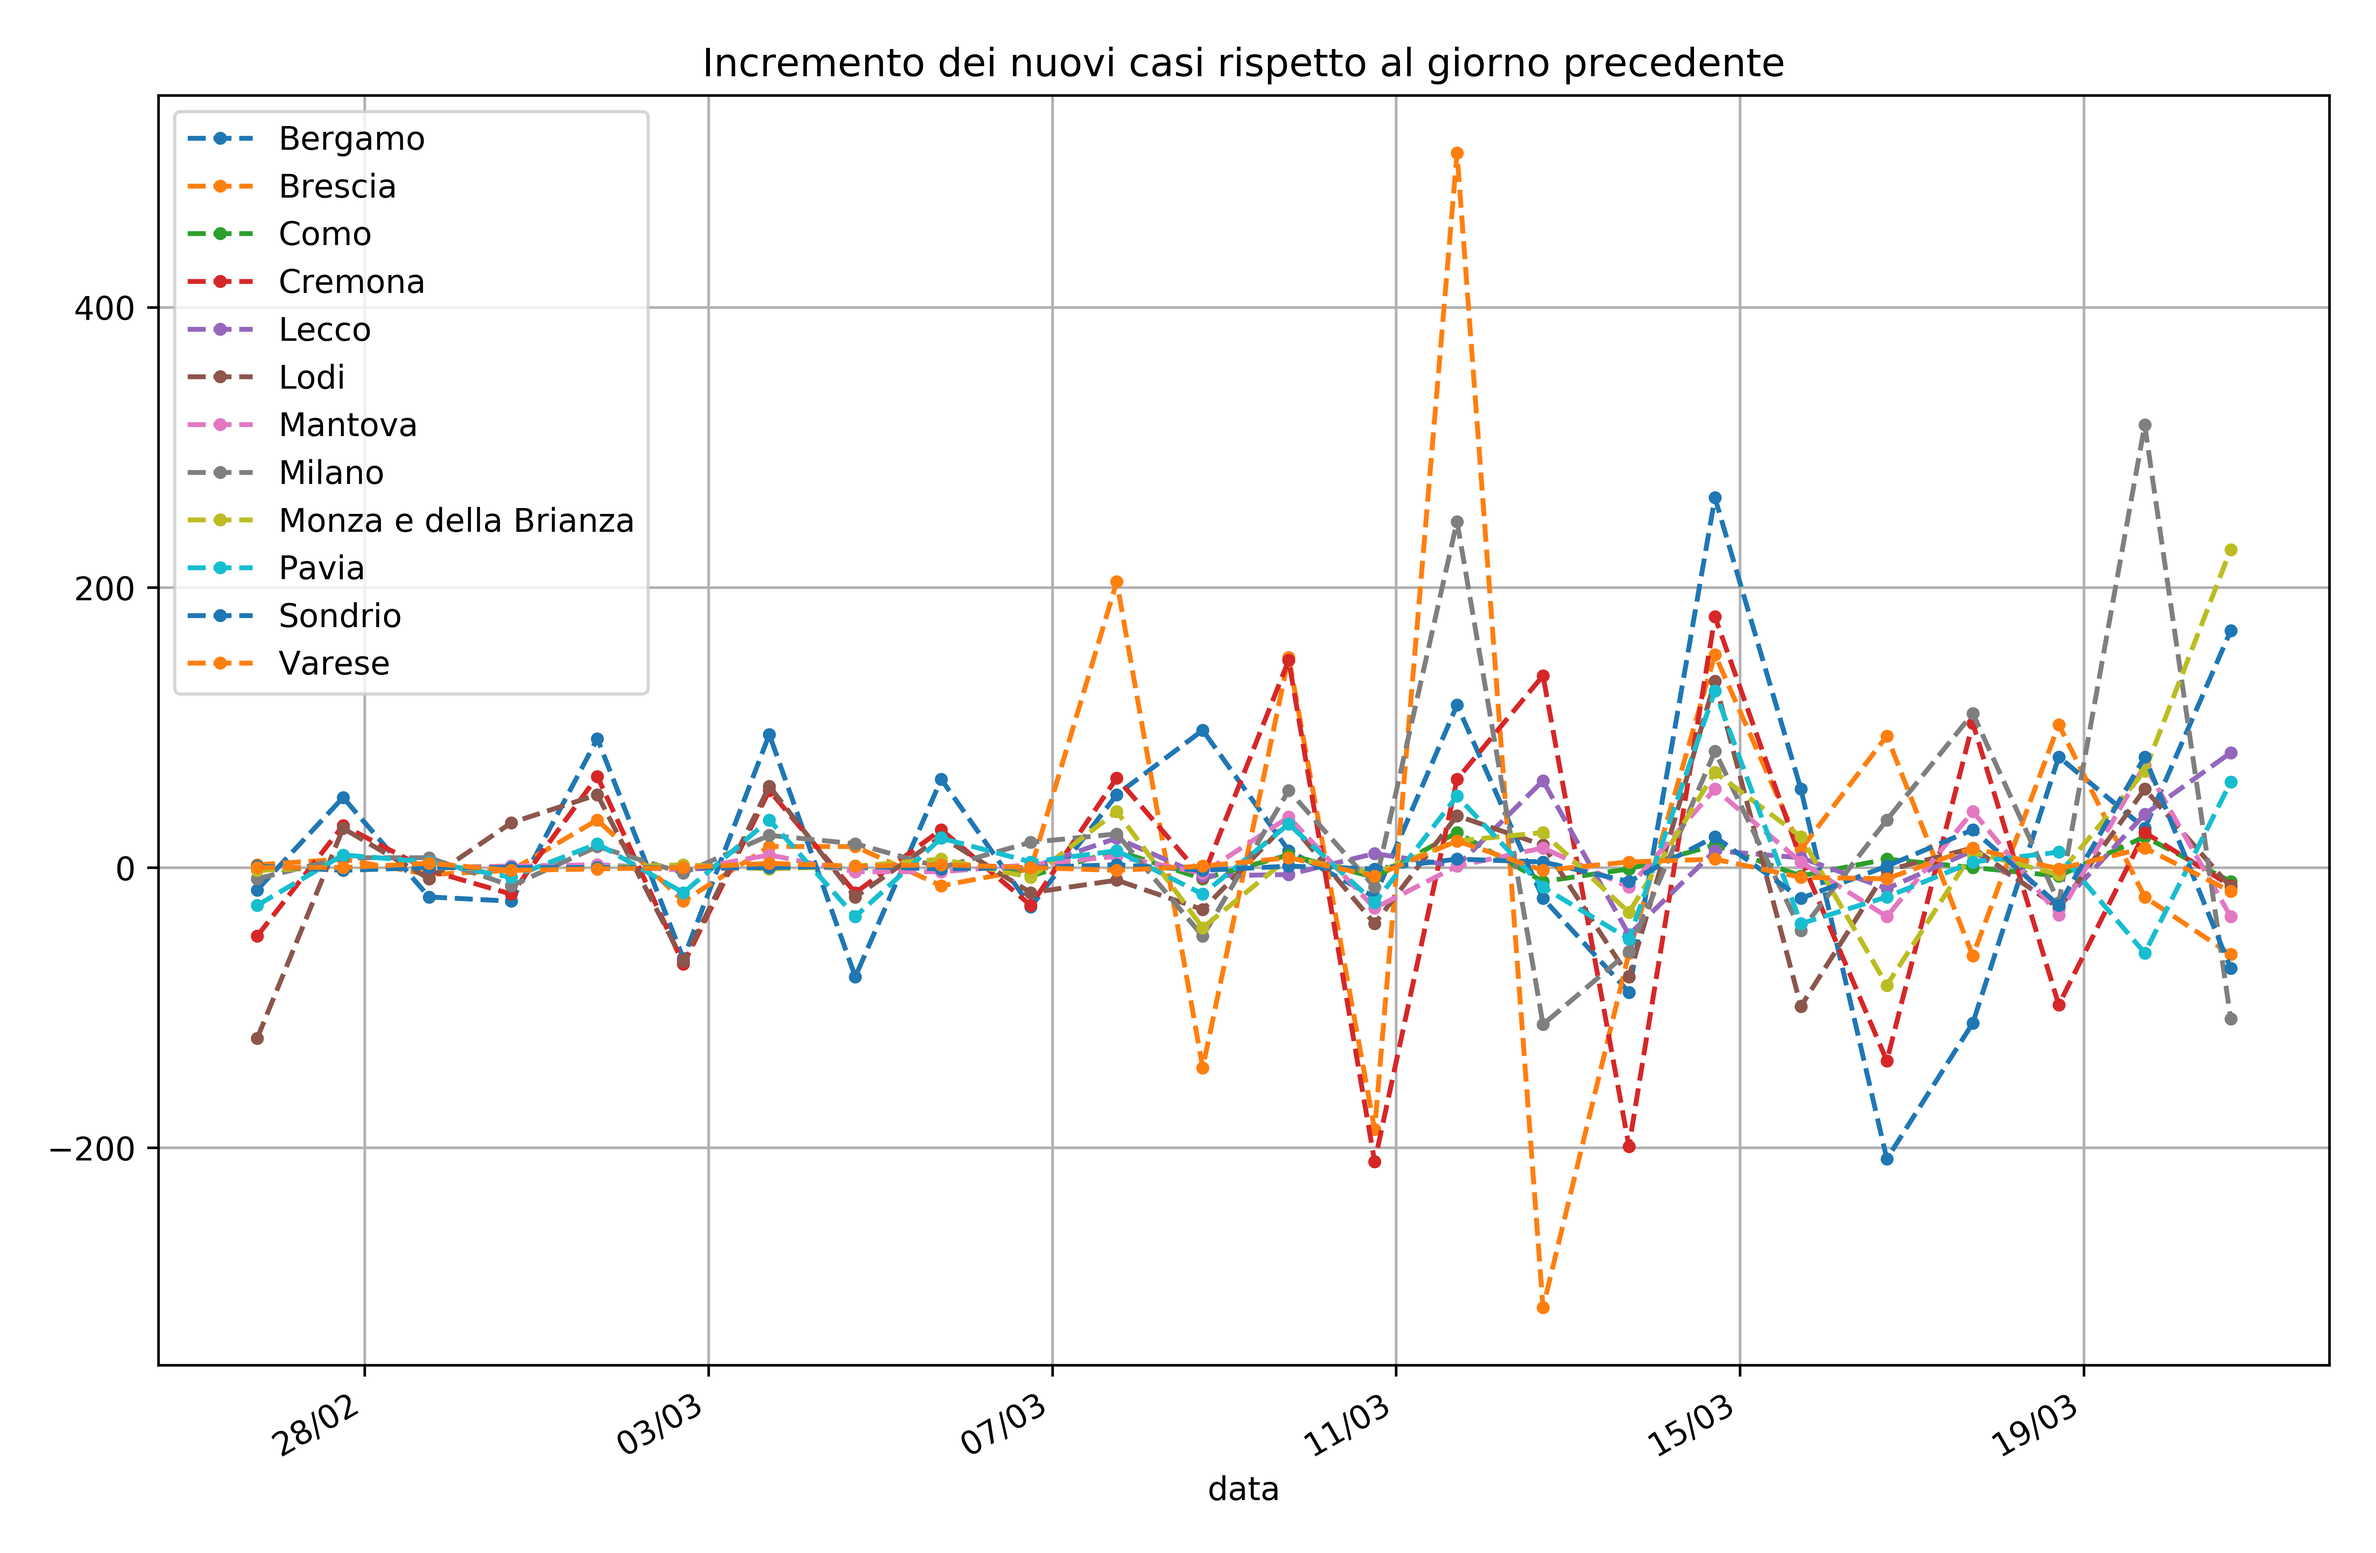
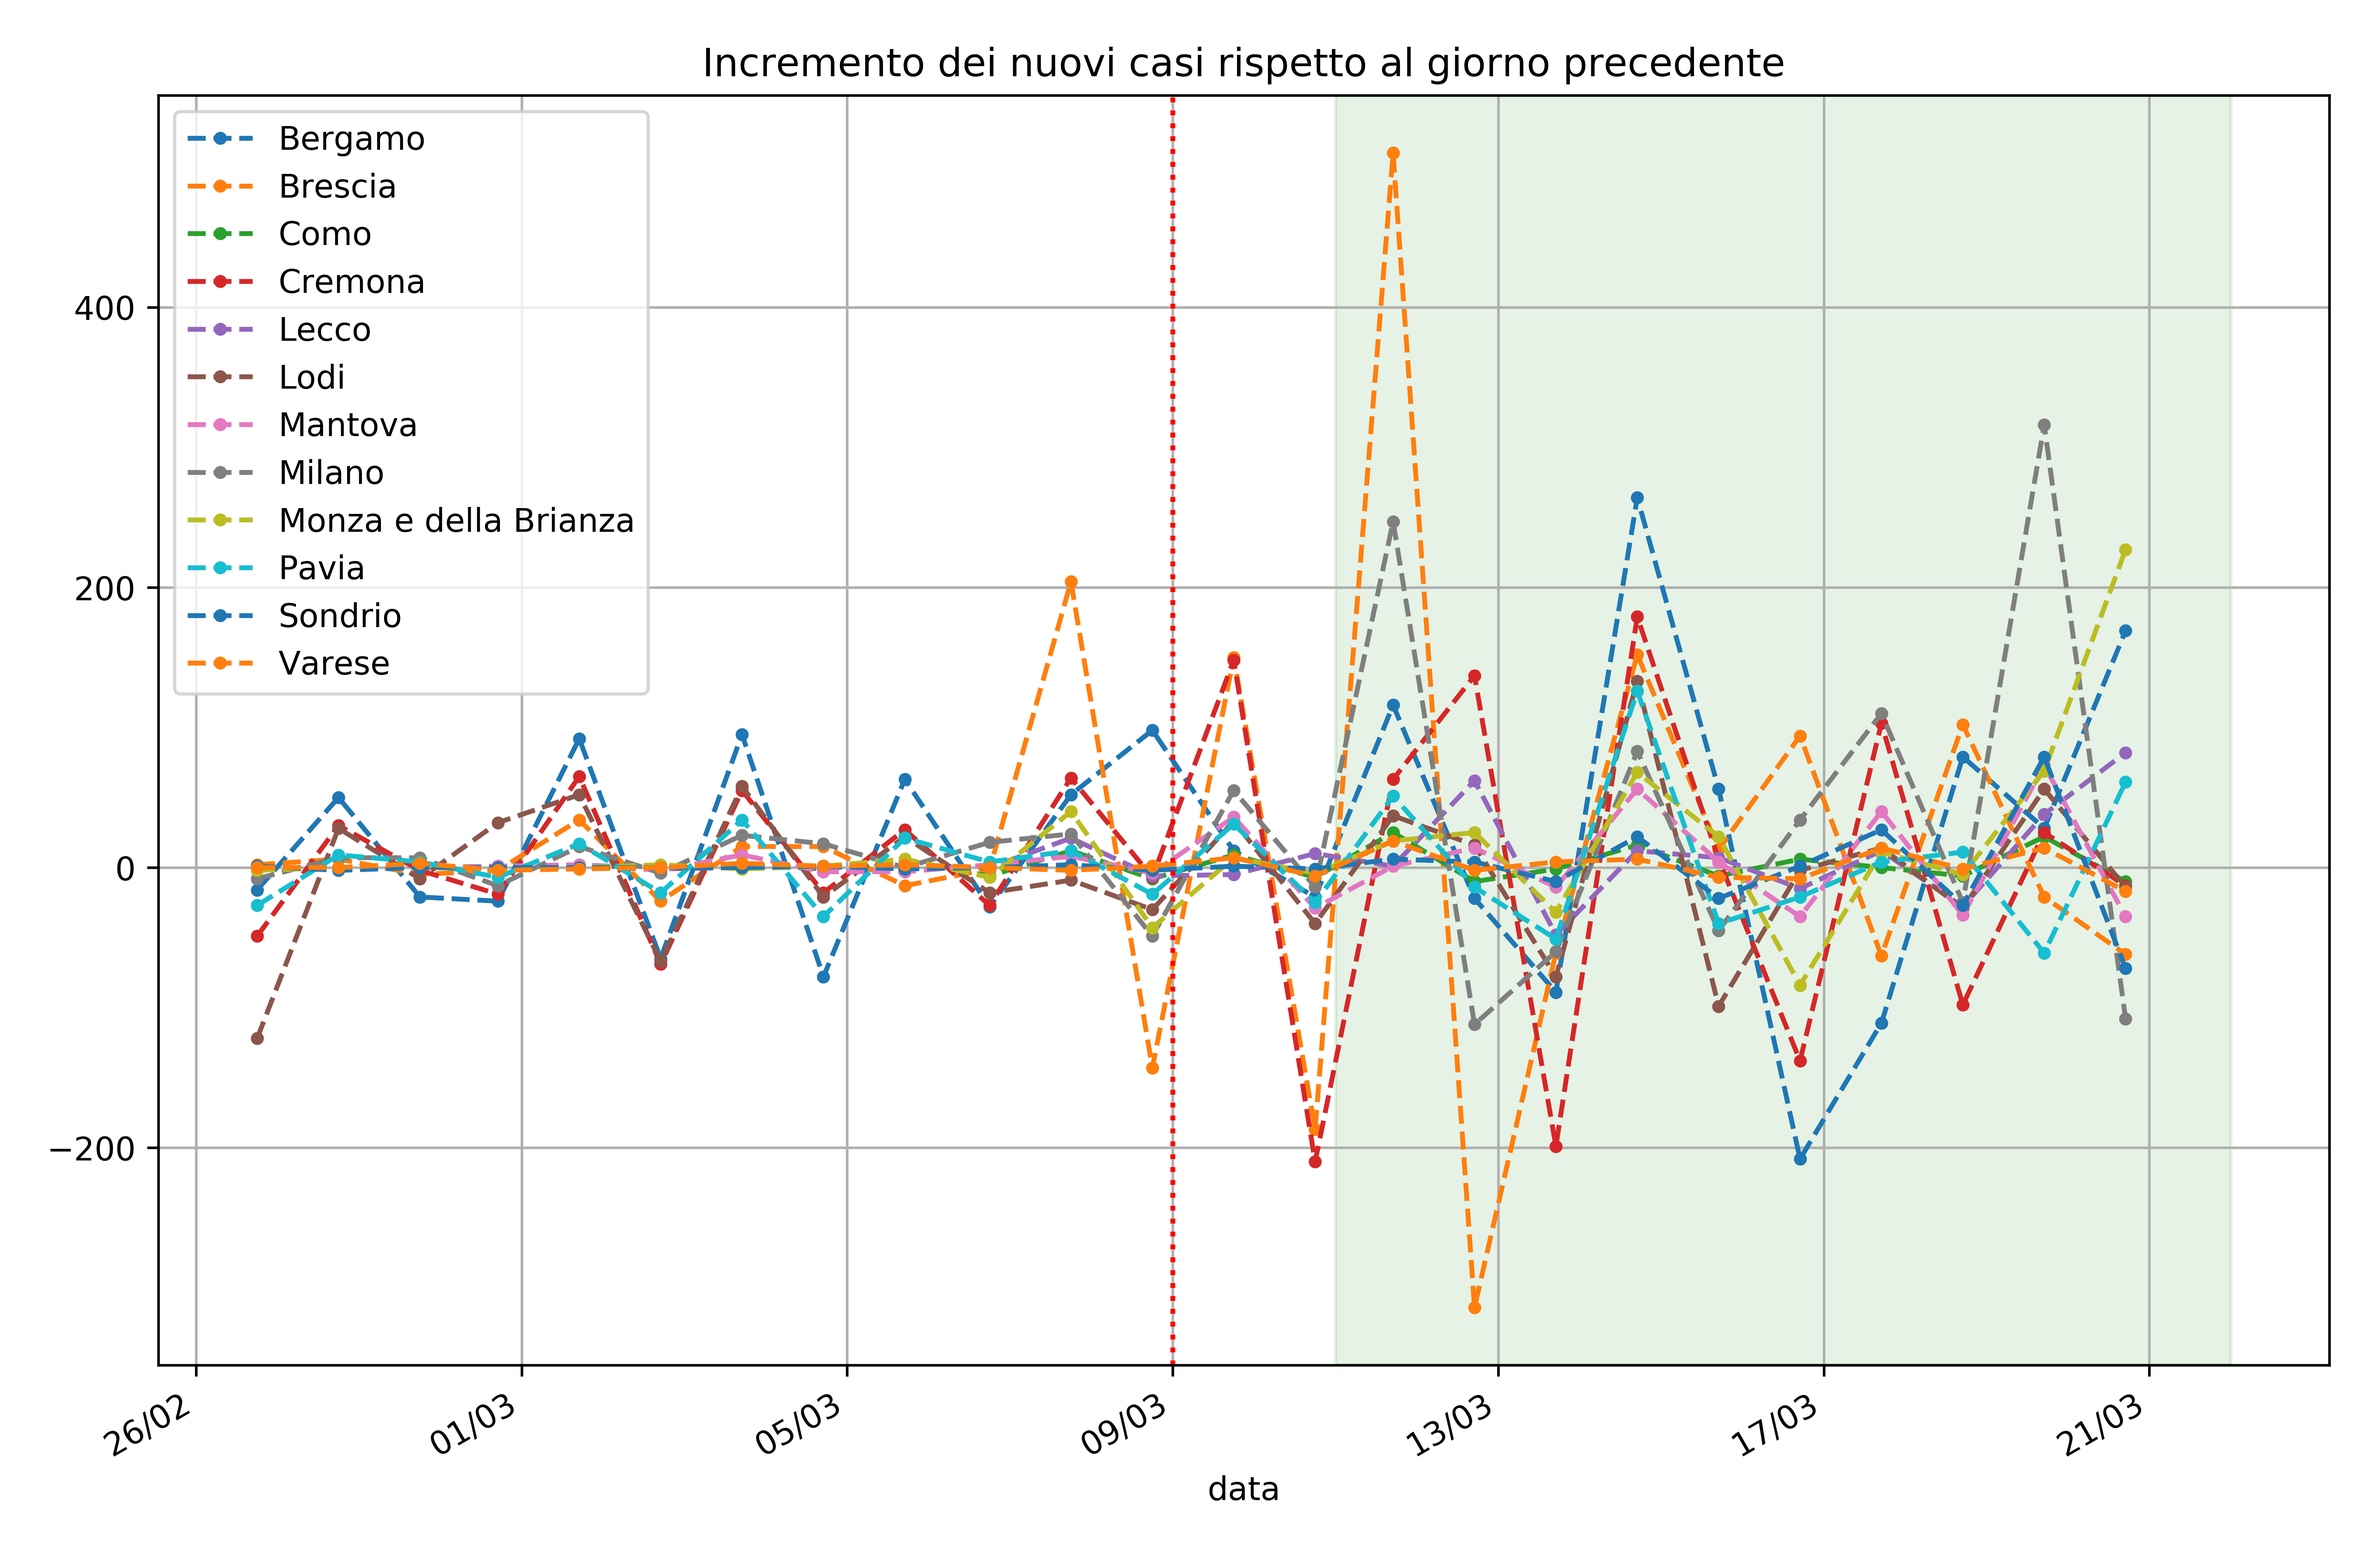
Fix plot tasso di crescita

diff --git a/covid_plot.py b/covid_plot.py
@@ -103,6 +103,8 @@ with open("docs/corr_distanza.md ", "w") as corr_dist_file:
 draw_date_info(ax_ospedale, inizio_misure)
 draw_date_info(ax_totali, inizio_misure)
 draw_date_info(ax_incrementi, inizio_misure)
+draw_date_info(ax_tasso, inizio_misure)
+
 
 ax_incrementi.legend(loc='upper left', shadow=True, fontsize='medium')
 ax_totali.legend(loc='upper left', shadow=True, fontsize='medium')
